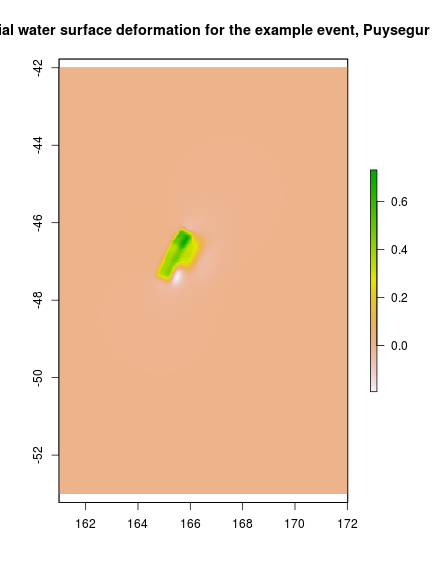
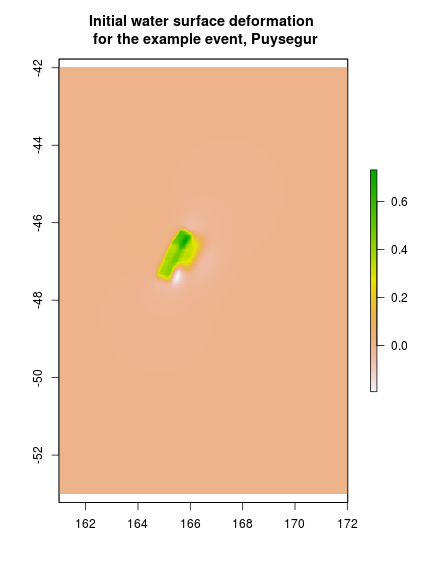
new event

Changed region(s): [[0.0, 0.0312, 0.9931, 0.0938]]

diff --git a/ptha_access/README.md b/ptha_access/README.md
@@ -375,7 +375,7 @@ initial_condition = get_initial_condition_for_event(puysegur, row_index)
 # writeRaster(initial_conditions, 'my_output_filename.tif')
 
 # Make a plot
-plot(initial_condition, main='Initial water surface deformation for the example event, Puysegur')
+plot(initial_condition, main='Initial water surface deformation \n for the example event, Puysegur')
 ```
 
 ![plot of chunk raster_eventXXX](figure/raster_eventXXX-1.png)
@@ -410,15 +410,12 @@ FIXME:
 ### ***Extracting the tsunami time-series for a particular event at a particular hazard point***
 
 Here we show how to read a flow time-series for a given earthquake event, at a
-given hazard point. To do this, you have to know the hazard point `gaugeID`, which can
-be found by clicking on the hazard point in the interactive map above (please do not
-confuse this with the Feature ID that is shown by default in the interactive map - I 
-would like to remove this field, but do not yet know how/if it can be done!). 
-
-The data is downloaded from the NCI.
-
-*Recall that this requires that ncdf4 and rptha are installed appropriately,
-see the installation section above.*
+given hazard point. To do this, you have to know the hazard point `gaugeID`,
+which can be found by examining the peak-stage vs exceedance-rate datasets (csv
+and shapefile), or by using the interactive hazard point viewer above. (In the
+latter case, please do not confuse this with the Feature ID that is shown by
+default in the interactive map - I would like to remove this field, but do not
+yet know how/if it can be done!). 
 
 
 ```r
